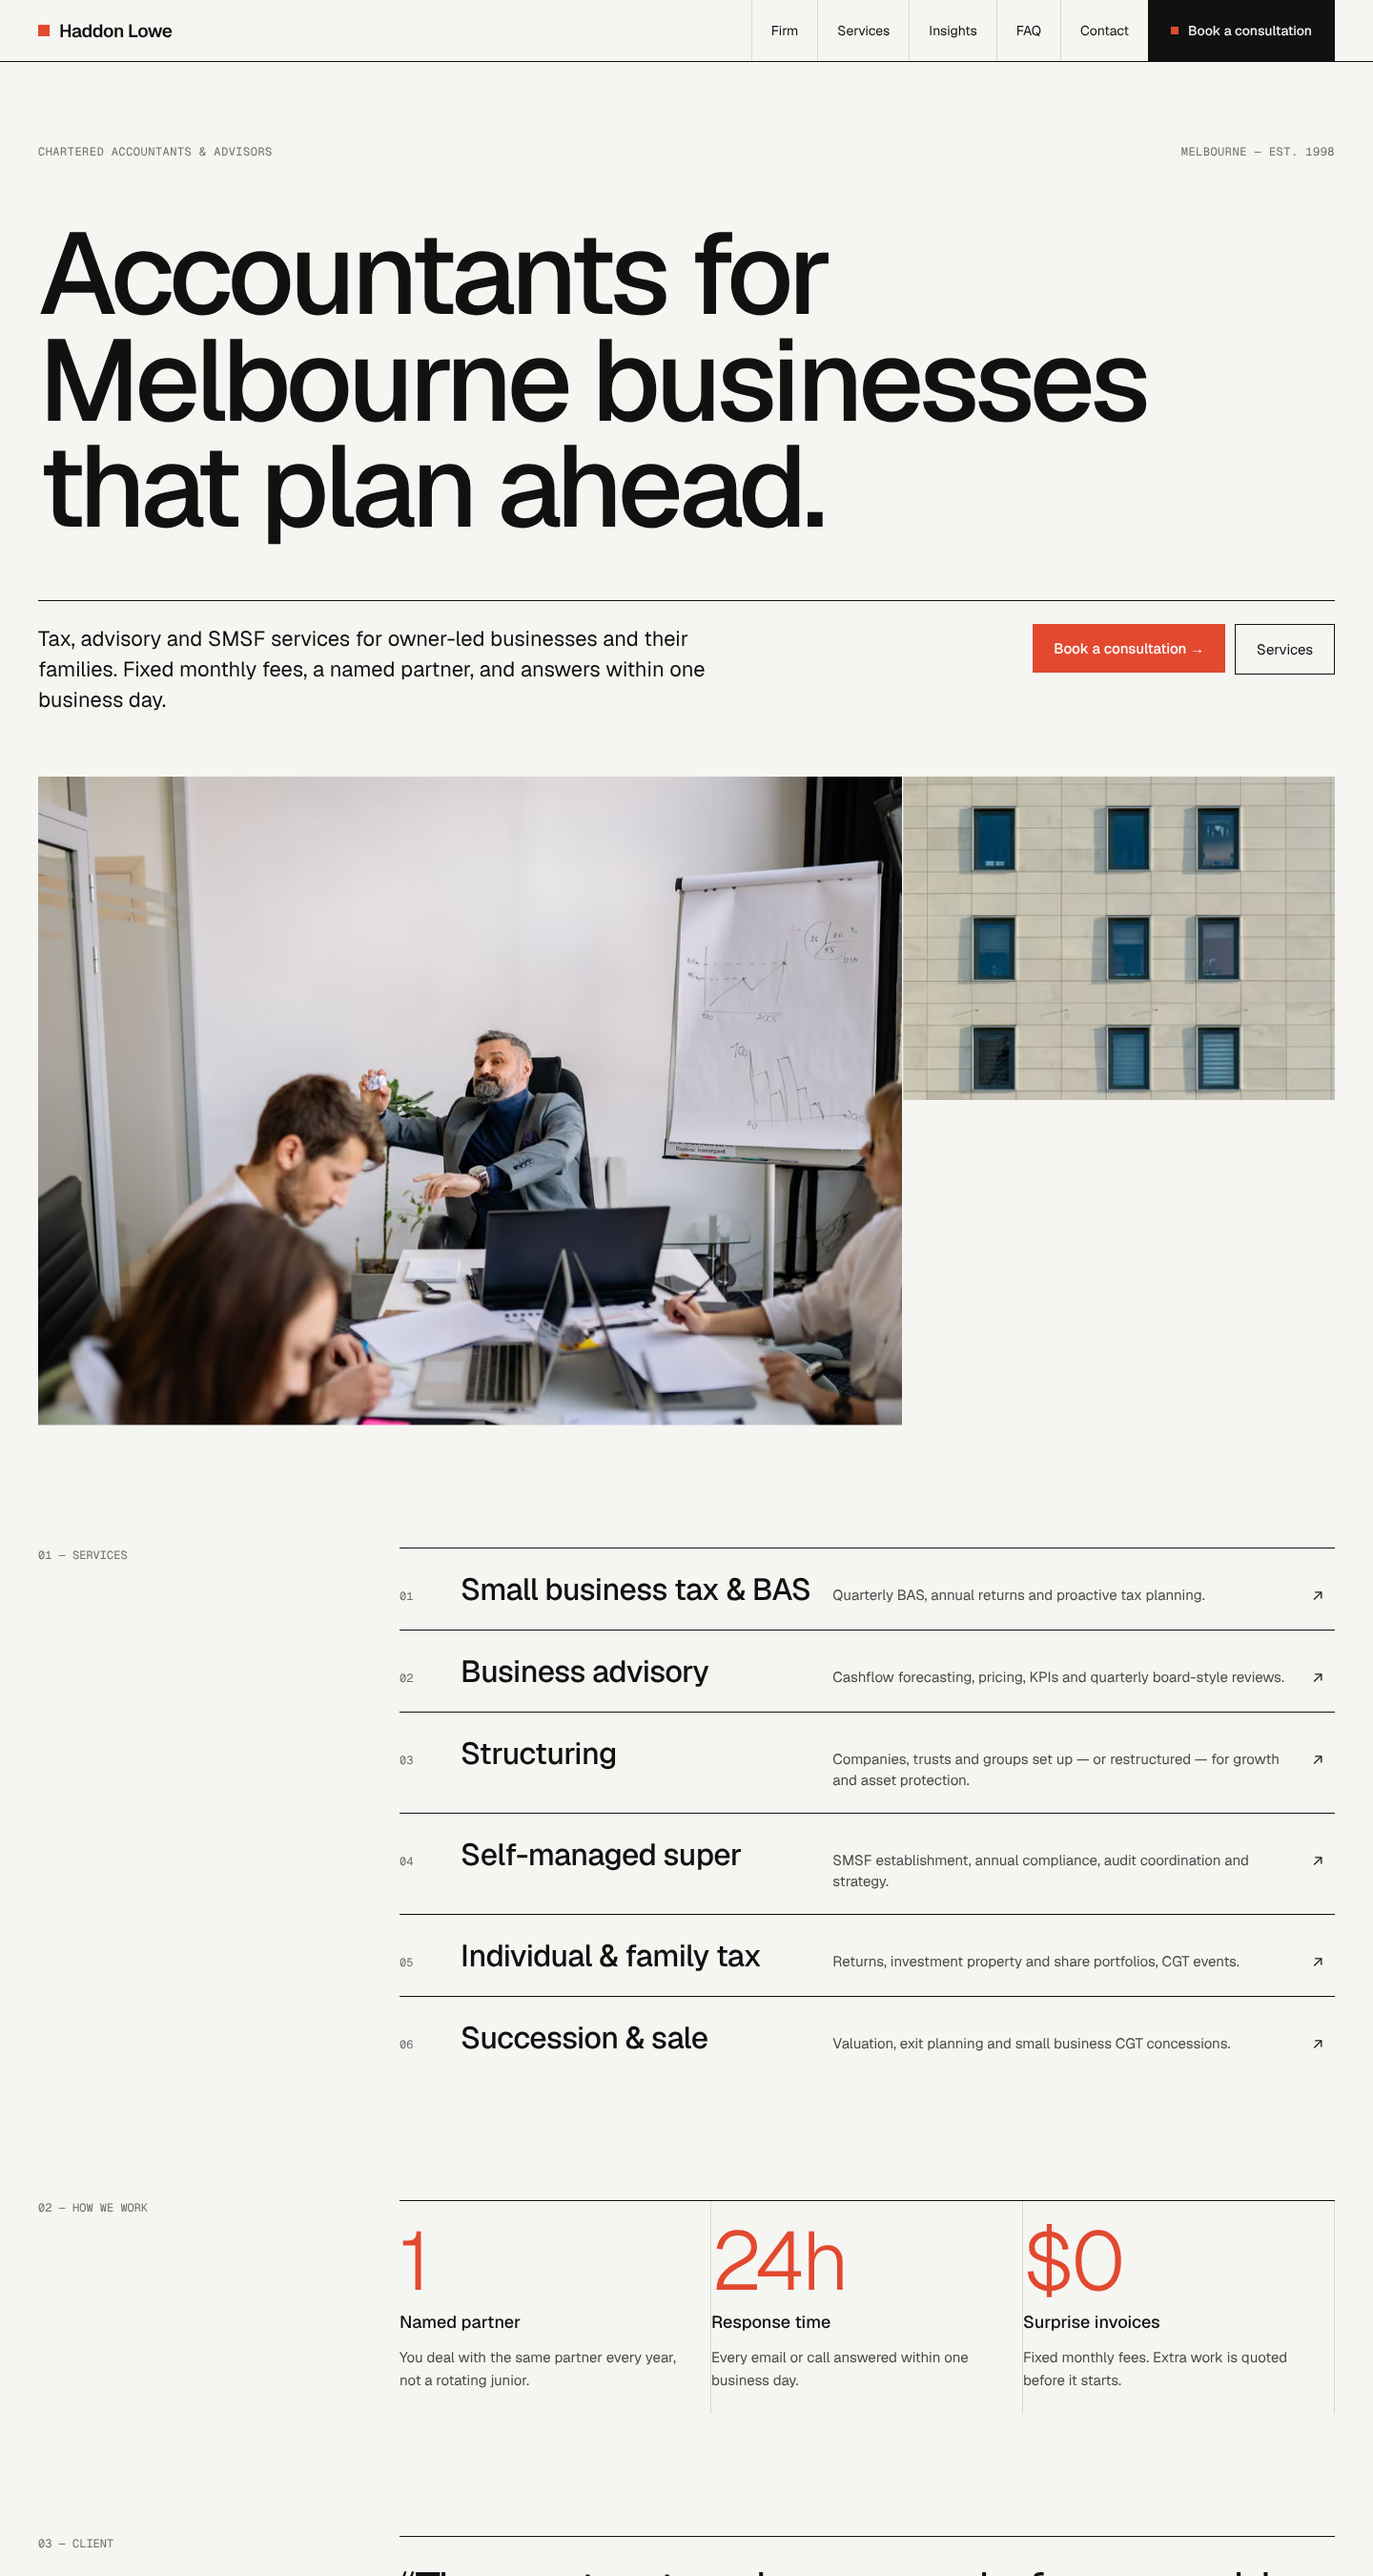
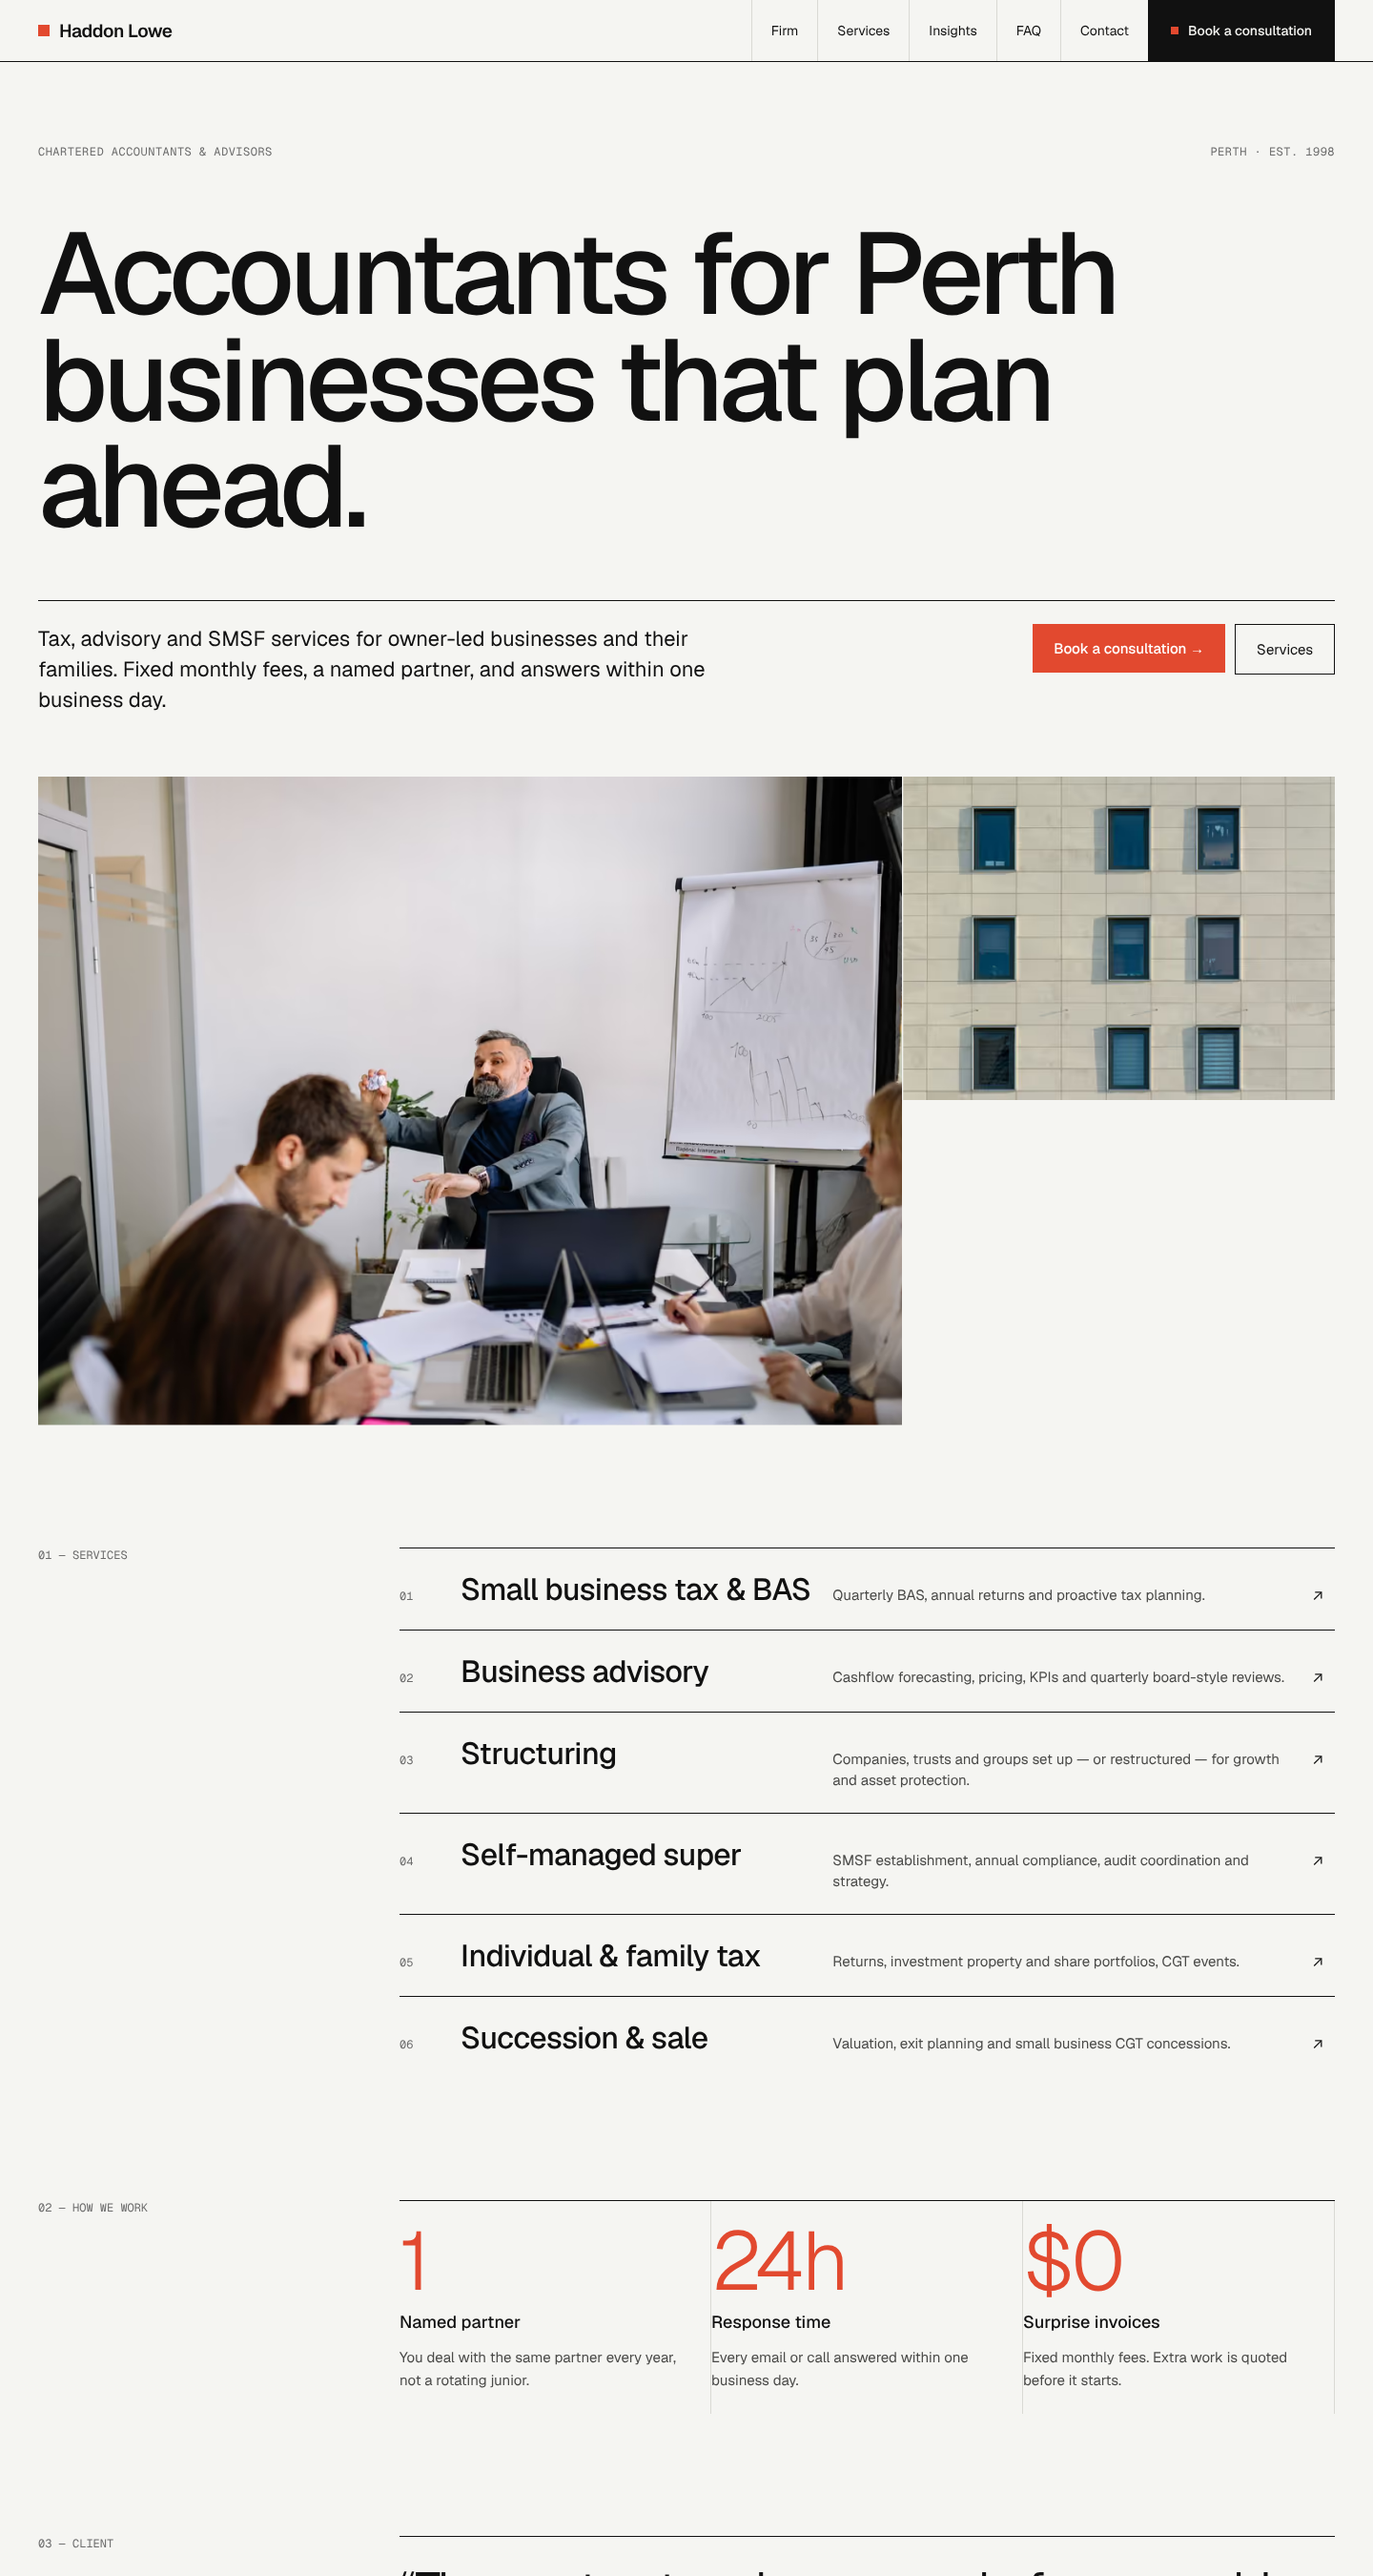
Counsel: move the demo firm from Melbourne to Perth; show each demo's city in the gallery
Templates now cover all three Purple Giraffe offices: Brisbane (Franchise,
Coastline), Adelaide (Clinic, Cellar Door) and Perth (Counsel). Address,
phone (ACMA fictional range), transport note, governing law, titles and
copy updated; gallery screenshot retaken.

Claude-Session: https://claude.ai/code/session_01EViwCbqijSEZAYby5de91t

Changed region(s): [[0.0312, 0.0622, 0.8438, 0.2178]]

diff --git a/src/templates/professional/services.ts b/src/templates/professional/services.ts
@@ -51,7 +51,7 @@ export const tiers: Tier[] = [
 ];
 
 export const detailFaqs = [
-  { q: 'What does a small business accountant cost in Melbourne?', a: 'For an owner-led company with BAS and an annual return, expect $250–$600 a month on a fixed-fee plan, depending on transaction volume and structure.' },
+  { q: 'What does a small business accountant cost in Perth?', a: 'For an owner-led company with BAS and an annual return, expect $250–$600 a month on a fixed-fee plan, depending on transaction volume and structure.' },
   { q: 'Can you lodge overdue tax returns?', a: 'Yes. We regularly bring businesses up to date with the ATO, and can negotiate payment plans and penalty remission on your behalf.' },
   { q: 'Do I need to register for GST?', a: 'You must register once your GST turnover reaches $75,000 a year (or $150,000 for not-for-profits). Taxi and ride-share drivers must register regardless of turnover.' },
 ];
@@ -64,7 +64,7 @@ const list: Omit<Service, 'num' | 'href'>[] = [
     blurb: 'Quarterly BAS, annual returns and proactive tax planning.',
     from: 'From $290/mo',
     serviceType: 'Small business accounting',
-    h1: 'Small business tax & BAS, Melbourne',
+    h1: 'Small business tax & BAS, Perth',
     intro: 'Quarterly BAS, annual returns and year-round tax planning for companies, trusts and sole traders — on a fixed monthly fee from $290 + GST.',
     cta: 'Book a free 30-min review',
     whoFor: [
@@ -77,8 +77,8 @@ const list: Omit<Service, 'num' | 'href'>[] = [
     feeHeader: 'Monthly, ex GST',
     tiers,
     faqs: detailFaqs,
-    metaTitle: 'Small business tax & BAS accountant Melbourne | Haddon Lowe',
-    metaDescription: 'Quarterly BAS, annual returns and tax planning for Melbourne companies, trusts and sole traders. Fixed monthly fee from $290 + GST. Book a free 30-minute review.',
+    metaTitle: 'Small business tax & BAS accountant Perth | Haddon Lowe',
+    metaDescription: 'Quarterly BAS, annual returns and tax planning for Perth companies, trusts and sole traders. Fixed monthly fee from $290 + GST. Book a free 30-minute review.',
   },
   {
     slug: 'business-advisory',
@@ -117,8 +117,8 @@ const list: Omit<Service, 'num' | 'href'>[] = [
       { q: 'Do I need to be a tax client to use advisory?', a: 'No. Most advisory clients also use us for tax because it saves duplicated work, but we can work alongside your existing accountant.' },
       { q: 'How quickly will we have a working forecast?', a: 'Usually within the first month, once we have access to your accounting file. What it changes for your business depends on the decisions you make with it, and we help you make them.' },
     ],
-    metaTitle: 'Business advisory & cashflow forecasting Melbourne | Haddon Lowe',
-    metaDescription: 'Cashflow forecasts, KPIs, pricing and quarterly board-style reviews for Melbourne owner-led businesses. Fixed monthly fee from $650 + GST.',
+    metaTitle: 'Business advisory & cashflow forecasting Perth | Haddon Lowe',
+    metaDescription: 'Cashflow forecasts, KPIs, pricing and quarterly board-style reviews for Perth owner-led businesses. Fixed monthly fee from $650 + GST.',
   },
   {
     slug: 'structuring',
@@ -158,8 +158,8 @@ const list: Omit<Service, 'num' | 'href'>[] = [
       { q: 'Can I change my structure later?', a: 'Yes, but moving a business or assets between entities can trigger capital gains tax and stamp duty. Some rollovers and concessions may apply, so it is worth planning the change carefully and getting it right early.' },
       { q: 'Do you prepare the legal documents?', a: 'We register entities and arrange trust deeds through a specialist provider. Agreements between owners, such as shareholder agreements, should be prepared by your lawyer, and we work with them on the tax and financial terms.' },
     ],
-    metaTitle: 'Company & trust structuring accountant Melbourne | Haddon Lowe',
-    metaDescription: 'Company, trust and group structures for Melbourne businesses, modelled with your numbers. Setup, restructures and asset protection on a fixed fee.',
+    metaTitle: 'Company & trust structuring accountant Perth | Haddon Lowe',
+    metaDescription: 'Company, trust and group structures for Perth businesses, modelled with your numbers. Setup, restructures and asset protection on a fixed fee.',
   },
   {
     slug: 'self-managed-super',
@@ -199,8 +199,8 @@ const list: Omit<Service, 'num' | 'href'>[] = [
       { q: 'Can my SMSF buy my business premises?', a: 'Generally yes. An SMSF can acquire business real property from a related party at market value, and lease it back to your business. The lease must be on commercial terms at market rent, and the rent must actually be paid.' },
       { q: 'Who audits my fund?', a: 'Every SMSF must be audited each year by an approved SMSF auditor who is independent of the fund and of us. We prepare everything the auditor needs and manage the process with them.' },
     ],
-    metaTitle: 'SMSF accountant Melbourne | Haddon Lowe',
-    metaDescription: 'SMSF annual accounts, tax returns, audit coordination, pensions and establishment. Melbourne SMSF specialists with compliance from $2,400 a year + GST.',
+    metaTitle: 'SMSF accountant Perth | Haddon Lowe',
+    metaDescription: 'SMSF annual accounts, tax returns, audit coordination, pensions and establishment. Perth SMSF specialists with compliance from $2,400 a year + GST.',
   },
   {
     slug: 'individual-family-tax',
@@ -239,8 +239,8 @@ const list: Omit<Service, 'num' | 'href'>[] = [
       { q: 'Can I claim interest on my rental property loan?', a: 'Generally yes, for the portion of the loan used to buy a property that is rented or genuinely available for rent. If you redraw money from the loan for private use, interest on that part is not deductible.' },
       { q: 'What do I need to send you?', a: 'Usually your income statement is pre-filled from the ATO. We send a checklist covering rental statements, sale contracts, investment summaries and receipts, and you can upload everything to our secure portal.' },
     ],
-    metaTitle: 'Individual tax returns & investment property tax Melbourne | Haddon Lowe',
-    metaDescription: 'Tax returns for Melbourne business owners, investors and families. Rental properties, shares, capital gains and trust distributions, from $380 a year + GST.',
+    metaTitle: 'Individual tax returns & investment property tax Perth | Haddon Lowe',
+    metaDescription: 'Tax returns for Perth business owners, investors and families. Rental properties, shares, capital gains and trust distributions, from $380 a year + GST.',
   },
   {
     slug: 'succession-sale',
@@ -279,8 +279,8 @@ const list: Omit<Service, 'num' | 'href'>[] = [
       { q: 'How far ahead should I start planning?', a: 'Ideally three years. That leaves time to fix structure problems, separate investment assets from the trading business and build clean financial records, all of which can affect both the price and the tax.' },
       { q: 'Can you value my business?', a: 'We prepare indicative valuations for planning and negotiation. Where a formal valuation is needed, for example for a related-party sale or a dispute, we refer you to an independent valuer and work with them.' },
     ],
-    metaTitle: 'Business sale & succession planning accountant Melbourne | Haddon Lowe',
-    metaDescription: 'Exit planning, valuations and small business CGT concessions for Melbourne owners selling or passing on a business. Fixed fees, quoted up front.',
+    metaTitle: 'Business sale & succession planning accountant Perth | Haddon Lowe',
+    metaDescription: 'Exit planning, valuations and small business CGT concessions for Perth owners selling or passing on a business. Fixed fees, quoted up front.',
   },
 ];
 

diff --git a/src/templates/professional/data.ts b/src/templates/professional/data.ts
@@ -6,7 +6,7 @@ export { services, inclusions, tiers, detailFaqs } from './services';
 export const faqs = [
   ['Fees', 'How do your fixed fees work?', 'We agree a monthly fee covering all compliance and a set number of advisory meetings. If scope changes, we quote before doing the extra work — no surprise invoices.'],
   ['Getting started', 'How hard is it to switch accountants?', 'Not hard. Once you sign our engagement letter, we contact your current accountant, request your files and update ATO authorisations. Most clients are fully moved within two weeks.'],
-  ['Getting started', 'Do you work with businesses outside Melbourne?', 'Yes. About a quarter of our clients are interstate; we meet by video and use secure cloud document sharing.'],
+  ['Getting started', 'Do you work with businesses outside Perth?', 'Yes. About a quarter of our clients are interstate; we meet by video and use secure cloud document sharing.'],
   ['Tax', 'When is my BAS due?', 'Quarterly BAS lodged through a registered agent is generally due on the 25th of the month after quarter end (26 February for the December quarter). We track every date for you.'],
   ['Tax', 'Should my business be a company or a trust?', 'It depends on profit levels, who works in the business, asset protection and your exit plans. We model each option with your actual numbers before recommending a structure.'],
   ['Software', 'Which accounting software do you support?', 'We’re certified partners for Xero and MYOB, and work with QuickBooks Online. We can migrate your data if you’re moving platforms.'],
@@ -70,8 +70,8 @@ export const formatList = ['At our office', 'Video call', 'Phone'];
 export const slotList = ['Tue 27 Oct — 9:30', 'Tue 27 Oct — 14:00', 'Wed 28 Oct — 11:00', 'Thu 29 Oct — 8:30', 'Thu 29 Oct — 16:00', 'Fri 30 Oct — 10:00'];
 
 export const contactCols = [
-  { label: 'Address', l1: 'Level 9, 410 Collins Street', l2: 'Melbourne VIC 3000' },
-  { label: 'Phone', l1: '(03) 9555 0193', l2: 'Mon–Fri 8:30–17:30' },
+  { label: 'Address', l1: 'Level 9, 216 St Georges Terrace', l2: 'Perth WA 6000' },
+  { label: 'Phone', l1: '(08) 5550 0193', l2: 'Mon–Fri 8:30–17:30' },
   { label: 'Email', l1: 'office@haddonlowe.com.au', l2: 'Reply within 1 business day' },
-  { label: 'Getting here', l1: 'Trams 11, 12, 48, 109', l2: 'Collins St / Queen St stop' },
+  { label: 'Getting here', l1: 'Elizabeth Quay station', l2: '5 minutes’ walk, buses on St Georges Tce' },
 ];

diff --git a/src/templates/professional/config.ts b/src/templates/professional/config.ts
@@ -25,19 +25,19 @@ export const config = {
     legalName: 'Haddon Lowe Pty Ltd',
     abn: '27 084 661 302',
     tagline: 'Chartered Accountants & Advisors',
-    phone: '(03) 9555 0193',
-    phoneE164: '+61395550193',
+    phone: '(08) 5550 0193',
+    phoneE164: '+61855500193',
     email: 'office@haddonlowe.com.au',
     address: {
-      street: 'Level 9, 410 Collins Street',
-      locality: 'Melbourne',
-      region: 'VIC',
-      postcode: '3000',
+      street: 'Level 9, 216 St Georges Terrace',
+      locality: 'Perth',
+      region: 'WA',
+      postcode: '6000',
       country: 'AU',
     },
     hours: 'Mon–Fri 8:30–17:30',
     openingHours: 'Mo-Fr 08:30-17:30',
-    areaServed: ['Melbourne', 'Australia'],
+    areaServed: ['Perth', 'Australia'],
     foundingDate: '1998',
   },
 };
